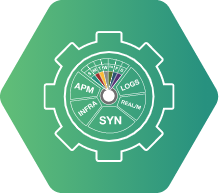
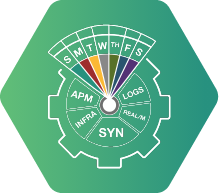
new

Changed region(s): [[0.1918, 0.1237, 0.8219, 0.8969]]

diff --git a/src/app/common/MarqueeeTwo.js b/src/app/common/MarqueeeTwo.js
@@ -17,7 +17,7 @@ import OptimizerOne from "../img/Group 327.svg";
 import OptimizerNine from "../img/Group 379.svg"; 
 import MONITORINGTL from "../img/DEEP-2.png";  
 import OptimizerEight from "../img/Group 377.svg";
-import OptimizerSeven from "../img/Group 375.svg";
+import OptimizerSeven from "../img/Remediator.png";
 
 import Image from "next/image";
 import Head from "next/head";
